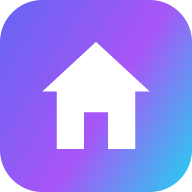
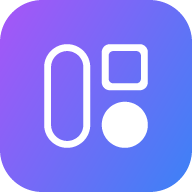
Nova ikona: kapsula s kvadratkom in krogom
PWA ikone in logotip na strani namesto hiske, preliv vijolicna -> modra.
Ikone aplikacij na nadzorni plosci brez barvnega sija.

diff --git a/tools/generate-icons.js b/tools/generate-icons.js
@@ -1,6 +1,7 @@
 /* Generator ikon za PWA — brez odvisnosti.
    Zaženi z: npm run icons
-   Nariše hiško iz glave strani na barvni preliv in zapiše PNG-je v icons/. */
+   Nariše kapsulo s kvadratkom in krogom na barvni preliv in zapiše PNG-je v icons/.
+   Neobvezen argument: druga izhodna mapa (npr. za predogled). */
 
 const fs = require("fs");
 const path = require("path");
@@ -56,9 +57,8 @@ function encodePNG(size, rgba) {
 /* ---------- risanje ---------- */
 
 const STOPS = [
-  { t: 0.0, c: [0x63, 0x66, 0xf1] }, // indigo
-  { t: 0.55, c: [0xa8, 0x55, 0xf7] }, // vijolična
-  { t: 1.0, c: [0x22, 0xd3, 0xee] }, // cian
+  { t: 0.0, c: [0xa8, 0x55, 0xf7] }, // vijolična
+  { t: 1.0, c: [0x3b, 0x82, 0xf6] }, // modra
 ];
 
 function gradient(t) {
@@ -85,22 +85,27 @@ function inRoundRect(x, y, size, r) {
   return dx * dx + dy * dy <= r * r;
 }
 
-function inTriangle(px, py, a, b, c) {
-  const s = (p, q, r) => (p[0] - r[0]) * (q[1] - r[1]) - (q[0] - r[0]) * (p[1] - r[1]);
-  const d1 = s([px, py], a, b);
-  const d2 = s([px, py], b, c);
-  const d3 = s([px, py], c, a);
-  const neg = d1 < 0 || d2 < 0 || d3 < 0;
-  const pos = d1 > 0 || d2 > 0 || d3 > 0;
-  return !(neg && pos);
+function inRect(x, y, w, h, r) {
+  if (x < 0 || y < 0 || x > w || y > h) return false;
+  const dx = Math.max(r - x, x - (w - r), 0);
+  const dy = Math.max(r - y, y - (h - r), 0);
+  return dx * dx + dy * dy <= r * r;
 }
 
-// Hiška v koordinatah 24 x 24 (isti viewBox kot ikona v glavi strani).
-function inHouse(x, y) {
-  const roof = inTriangle(x, y, [12, 2.6], [2.7, 11.2], [21.3, 11.2]);
-  const body = x >= 5.2 && x <= 18.8 && y >= 10.4 && y <= 21.2;
-  const door = x >= 9.9 && x <= 14.1 && y >= 14.8 && y <= 21.2;
-  return (roof || body) && !door;
+// Obroba (črta znotraj oblike), da razmiki med oblikami ostanejo.
+const STROKE = 1.2;
+function inOutline(x, y, w, h, r) {
+  const ri = Math.max(0, Math.min(r - STROKE / 2, (w - 2 * STROKE) / 2, (h - 2 * STROKE) / 2));
+  return inRect(x, y, w, h, r) && !inRect(x - STROKE, y - STROKE, w - 2 * STROKE, h - 2 * STROKE, ri);
+}
+
+// Kapsula v koordinatah 24 x 24: visok stolpec levo, desno kvadratek in poln krog.
+// Ista oblika kot .brand-mark v index.html.
+function inGlyph(x, y) {
+  const capsule = inOutline(x - 3, y - 3, 8, 18, 4);
+  const square = inOutline(x - 13, y - 3, 8, 8, 1.4);
+  const dot = (x - 17) ** 2 + (y - 17) ** 2 <= 16;
+  return capsule || square || dot;
 }
 
 function render(size, { maskable = false } = {}) {
@@ -123,7 +128,7 @@ function render(size, { maskable = false } = {}) {
           const gy = ((py - size / 2) / (size * glyph)) * 24 + 12;
 
           let col;
-          if (inHouse(gx, gy)) {
+          if (inGlyph(gx, gy)) {
             col = [255, 255, 255];
           } else {
             col = gradient((px / size) * 0.62 + (py / size) * 0.38);
@@ -148,7 +153,8 @@ function render(size, { maskable = false } = {}) {
 
 /* ---------- zapis ---------- */
 
-const dir = path.join(__dirname, "..", "icons");
+const outArg = process.argv.slice(2).find((a) => !a.startsWith("--"));
+const dir = outArg ? path.resolve(outArg) : path.join(__dirname, "..", "icons");
 fs.mkdirSync(dir, { recursive: true });
 
 const files = [
@@ -165,4 +171,4 @@ for (const [name, size, opts] of files) {
   fs.writeFileSync(path.join(dir, name), png);
   console.log("  " + name + "  " + size + "x" + size + "  " + (png.length / 1024).toFixed(1) + " kB");
 }
-console.log("\nIkone zapisane v icons/");
+console.log("\nIkone zapisane v " + dir);

diff --git a/index.html b/index.html
@@ -36,7 +36,7 @@
   <div id="loadingScreen" class="loading-screen">
     <span class="brand-mark" aria-hidden="true">
       <svg viewBox="0 0 24 24" fill="none" stroke="currentColor" stroke-width="1.8" stroke-linecap="round" stroke-linejoin="round">
-        <path d="M3 10.5 12 3l9 7.5" /><path d="M5 9.5V21h14V9.5" /><path d="M9.5 21v-6h5v6" />
+        <rect x="3.9" y="3.9" width="6.2" height="16.2" rx="3.1" /><rect x="13.9" y="3.9" width="6.2" height="6.2" rx="1" /><circle cx="17" cy="17" r="4" fill="currentColor" stroke="none" />
       </svg>
     </span>
   </div>
@@ -47,7 +47,7 @@
       <div class="brand">
         <span class="brand-mark" aria-hidden="true">
           <svg viewBox="0 0 24 24" fill="none" stroke="currentColor" stroke-width="1.8" stroke-linecap="round" stroke-linejoin="round">
-            <path d="M3 10.5 12 3l9 7.5" /><path d="M5 9.5V21h14V9.5" /><path d="M9.5 21v-6h5v6" />
+            <rect x="3.9" y="3.9" width="6.2" height="16.2" rx="3.1" /><rect x="13.9" y="3.9" width="6.2" height="6.2" rx="1" /><circle cx="17" cy="17" r="4" fill="currentColor" stroke="none" />
           </svg>
         </span>
         <h1>TomStudios</h1>
@@ -134,7 +134,7 @@
       <div class="brand">
         <span class="brand-mark" aria-hidden="true">
           <svg viewBox="0 0 24 24" fill="none" stroke="currentColor" stroke-width="1.8" stroke-linecap="round" stroke-linejoin="round">
-            <path d="M3 10.5 12 3l9 7.5" /><path d="M5 9.5V21h14V9.5" /><path d="M9.5 21v-6h5v6" />
+            <rect x="3.9" y="3.9" width="6.2" height="16.2" rx="3.1" /><rect x="13.9" y="3.9" width="6.2" height="6.2" rx="1" /><circle cx="17" cy="17" r="4" fill="currentColor" stroke="none" />
           </svg>
         </span>
         <h1>TomStudios</h1>

diff --git a/styles.css b/styles.css
@@ -263,7 +263,7 @@ body {
   height: 34px;
   border-radius: 11px;
   color: #fff;
-  background: linear-gradient(140deg, #6366f1, #a855f7 55%, #22d3ee);
+  background: linear-gradient(140deg, #a855f7, #3b82f6);
   box-shadow: 0 6px 16px -6px rgba(99, 102, 241, .7);
 }
 .brand-mark svg { width: 17px; height: 17px; }
@@ -589,7 +589,6 @@ main {
   border-radius: var(--radius-sm);
   color: #fff;
   background: linear-gradient(140deg, var(--accent, #6366f1), var(--accent-2, #a855f7));
-  box-shadow: 0 10px 22px -10px color-mix(in srgb, var(--accent, #6366f1) 85%, transparent);
   transition: transform .28s cubic-bezier(.2, .8, .2, 1);
 }
 .card-icon svg { width: 25px; height: 25px; }
@@ -664,7 +663,6 @@ main {
   background: none;
   border: 1px dashed var(--border-strong);
   color: var(--text-soft);
-  box-shadow: none;
 }
 
 /* velik "+" gumb v sredini praznega mesta — klik odpre izbirnik aplikacij */

diff --git a/sw.js b/sw.js
@@ -1,7 +1,7 @@
 /* Service worker — omogoča namestitev in delovanje brez povezave.
    Ob spremembi datotek povečaj VERZIJO, da se predpomnilnik osveži. */
 
-const VERZIJA = "v39";
+const VERZIJA = "v40";
 const CACHE = "ptomsetu-" + VERZIJA;
 
 const LUPINA = [
